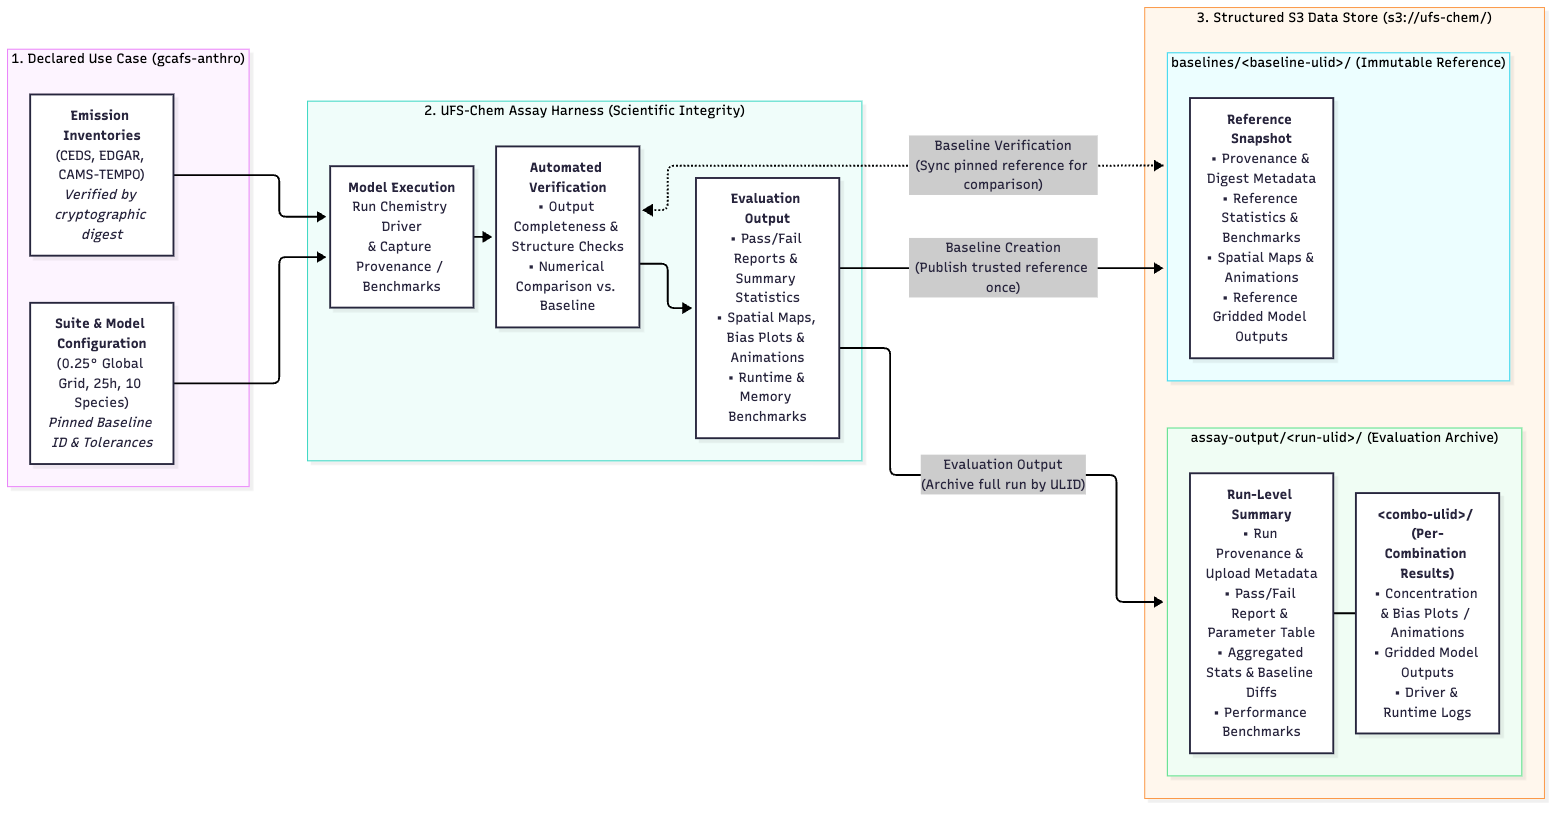
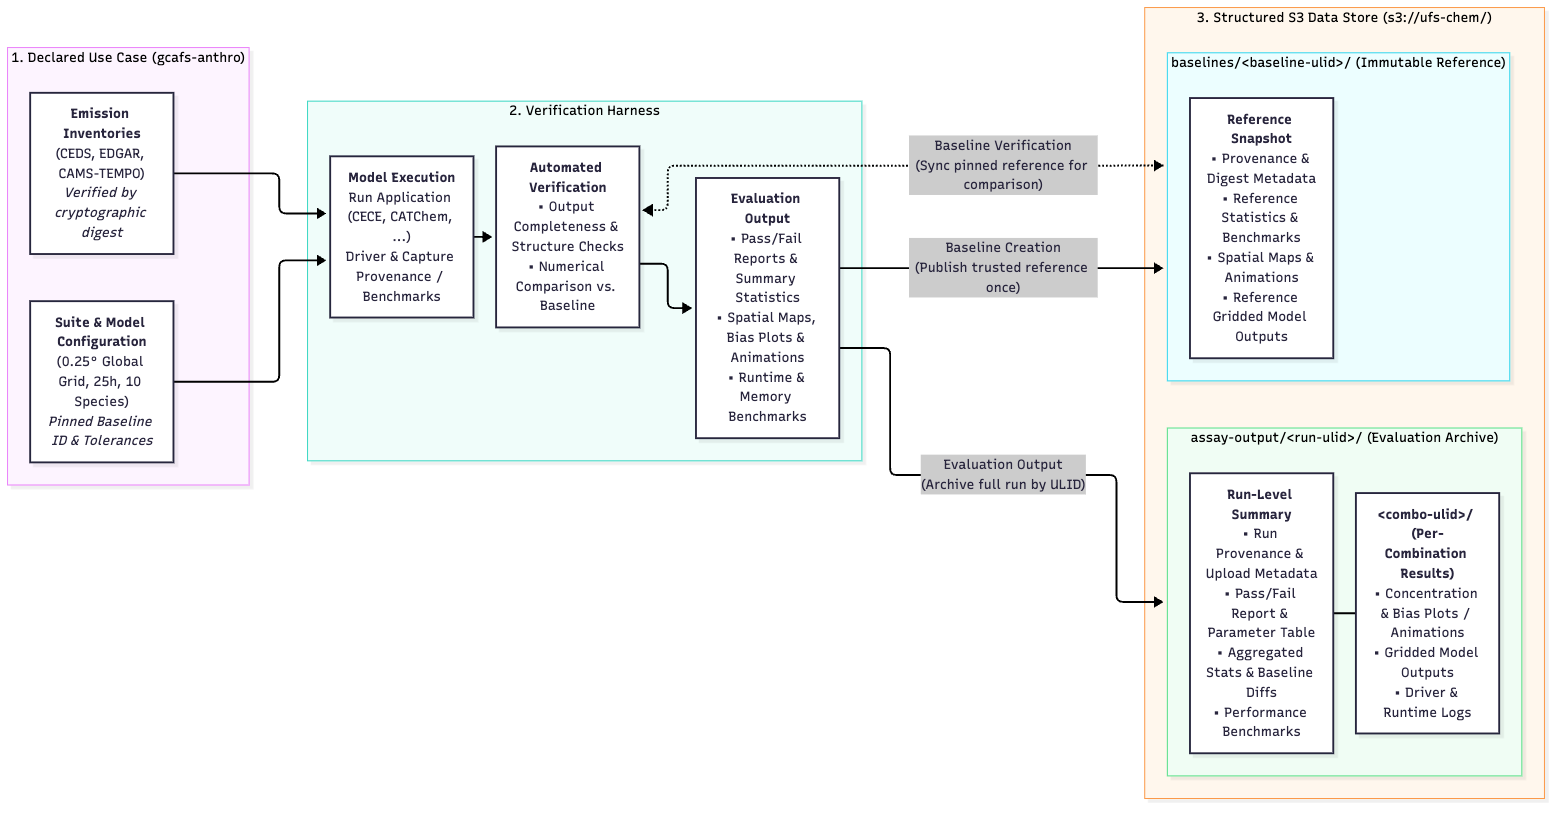
chore: design/spike/20261029-1719-overview/20261029-1719-overview.md

diff --git a/design/spike/20261029-1719-overview/20261029-1719-overview.md b/design/spike/20261029-1719-overview/20261029-1719-overview.md
@@ -41,8 +41,8 @@ A single left-to-right (`flowchart LR`) diagram organized into three visual colu
 
 1. **Column 1 — Declared Use Case (`gcafs-anthro`)**:
    - Digest-verified emission inventories (CEDS, EDGAR, CAMS-TEMPO) + version-controlled suite & model configuration with pinned baseline ID and tolerances.
-2. **Column 2 — UFS-Chem Assay Harness (`Scientific Integrity`)**:
-   - **Model Execution**: runs the chemistry driver and captures provenance & resource metrics.
+2. **Column 2 — Verification Harness**:
+   - **Model Execution**: runs the application (`CECE`, `CATChem`, ...) driver and captures provenance & resource benchmarks.
    - **Automated Verification**: checks output structure/completeness and performs numerical comparison against the baseline.
    - **Evaluation Output**: generates pass/fail reports, descriptive statistics, spatial maps/bias plots/animations, and runtime/memory benchmarks.
 3. **Column 3 — Structured S3 Data Store (`s3://ufs-chem/`)**:
@@ -59,9 +59,9 @@ flowchart LR
         Config["<b>Suite &amp; Model Configuration</b><br/>(0.25° Global Grid, 25h, 10 Species)<br/><i>Pinned Baseline ID &amp; Tolerances</i>"]
     end
 
-    subgraph Harness["2. UFS-Chem Assay Harness (Scientific Integrity)"]
+    subgraph Harness["2. Verification Harness"]
         direction TB
-        Run["<b>Model Execution</b><br/>Run Chemistry Driver<br/>&amp; Capture Provenance / Benchmarks"]
+        Run["<b>Model Execution</b><br/>Run Application (CECE, CATChem, ...)<br/>Driver &amp; Capture Provenance / Benchmarks"]
         Verify["<b>Automated Verification</b><br/>• Output Completeness &amp; Structure Checks<br/>• Numerical Comparison vs. Baseline"]
         Evaluate["<b>Evaluation Output</b><br/>• Pass/Fail Reports &amp; Summary Statistics<br/>• Spatial Maps, Bias Plots &amp; Animations<br/>• Runtime &amp; Memory Benchmarks"]
         Run --> Verify --> Evaluate
@@ -164,3 +164,4 @@ sed -n '/^```mermaid$/,/^```$/{ /^```/d; p; }' \
 - 2026-10-29 (initial refinement): structured the spike around a 3-stage left-to-right Mermaid flowchart (`Declared Use Case` → `UFS-Chem Assay Harness` → `Structured S3 Data Store`) that highlights the three scientific integrity pillars (digest-verified inputs/config, automated baseline verification, and full evaluation artifacts) and depicts the S3 prefix layout (`baselines/<baseline-ulid>/` and `assay-output/<run-ulid>/`). Per the refinement rule ("refinements never create files. they only edit the target document that is being refined"), only `20261029-1719-overview.md` was edited; running `mmdc` to emit the rendered image awaits user review of the diagram and open questions.
 - 2026-10-29 (user responses to open questions): (1) PNG output only (`20261029-1719-overview.png`), rendered via `mmdc` stdin so no `-1` suffix or temp file is produced; (2) removed all file-level detail (filenames and extensions) from the S3 subgraphs in favor of high-level structural categories (`Run-Level Summary` and `<combo-ulid>/ (Per-Combination Results)`); (3) kept general wording for the verification node (`Numerical Comparison vs. Baseline`). All open questions resolved.
 - 2026-10-30 (user: implement): rendered `design/spike/20261029-1719-overview/20261029-1719-overview.png` via `mmdc` (`-s 2 -b white`) using the local Chrome installation (`PUPPETEER_EXECUTABLE_PATH="/Applications/Google Chrome.app/Contents/MacOS/Google Chrome"`), refined the dotted verification arrow direction so all three harness-to-S3 labels align between columns 2 and 3, and embedded the rendered PNG in `Implementation Notes`.
+- 2026-10-30 (user label adjustments): changed box 2 title to `2. Verification Harness` and updated the `Model Execution` description to `Run Application (CECE, CATChem, ...) Driver & Capture Provenance / Benchmarks`; re-rendered `20261029-1719-overview.png`.
